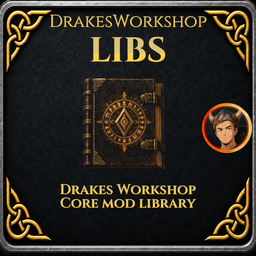
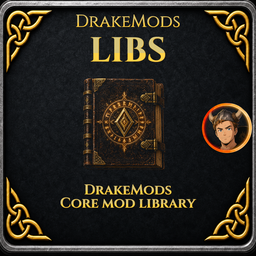
Rename package to DrakeModsLibs and refresh branding, packaging, and display patches.

Changed region(s): [[0.1875, 0.0312, 0.8125, 0.125], [0.2188, 0.7188, 0.7812, 0.7812]]

diff --git a/Patches/ItemDisplayPatches.cs b/Patches/ItemDisplayPatches.cs
@@ -4,18 +4,14 @@ using System.Linq;
 using System.Reflection;
 using System.Text.RegularExpressions;
 using BepInEx.Logging;
-using DrakesWorkshopLibs.Data;
-using DrakesWorkshopLibs.Display;
-using DrakesWorkshopLibs.Runtime;
-
-
-using DrakesWorkshopLibs.Display;
-
+using DrakeModsLibs.Data;
+using DrakeModsLibs.Display;
+using DrakeModsLibs.Runtime;
 using HarmonyLib;
 
 
 
-namespace DrakesWorkshopLibs.Patches;
+namespace DrakeModsLibs.Patches;
 
 /// <summary>Shared hover text rename logic (ItemDrop + ItemStand / container stands).</summary>
 internal static class HoverRenameHelper
@@ -167,7 +163,10 @@ public static class ItemStandPatch
 {
     
 
-    /// <summary>Container-backed stands first, then vanilla attached <see cref="ItemDrop.ItemData"/> (publicized <c>GetAttachedItem</c>).</summary>
+    /// <summary>
+    /// Container-backed stands first, then vanilla attachment.
+    /// Valheim 1.0+: <see cref="ItemStand.GetAttachedItem"/> returns a prefab hash (not <see cref="ItemDrop.ItemData"/>).
+    /// </summary>
     private static ItemDrop.ItemData? TryGetStandOccupantItem(ItemStand stand)
     {
         if (stand == null)
@@ -177,22 +176,23 @@ public static class ItemStandPatch
         if (fromContainer?.m_shared != null)
             return fromContainer;
 
-        var getAttached = AccessTools.Method(typeof(ItemStand), nameof(ItemStand.GetAttachedItem), Type.EmptyTypes);
-        if (getAttached?.Invoke(stand, null) is ItemDrop.ItemData attached && attached.m_shared != null)
-            return attached;
+        int hash = stand.GetAttachedItem();
+        if (hash == 0 || ObjectDB.instance == null)
+            return null;
 
-        return null;
+        var prefab = ObjectDB.instance.GetItemPrefab(hash);
+        return prefab != null ? prefab.GetComponent<ItemDrop>()?.m_itemData : null;
     }
 
     /// <summary>
     /// Clears the cached label when the stand is visually empty. When occupied, only <b>sets</b> the ZDO from
     /// <see cref="ItemDrop.ItemData"/> if Drake rename keys are present on that instance — vanilla's attached
-    /// visual item is often a copy without <c>m_customData</c>, and clearing from that would wipe a correct value
+    /// visual is often a prefab copy without <c>m_customData</c>, and clearing from that would wipe a correct value
     /// written by <see cref="GrabItem"/>.
     /// </summary>
-    private static void SyncItemStandRenameZdoFromOccupant(ItemStand stand, ZDO zdo, string itemName)
+    private static void SyncItemStandRenameZdoFromOccupant(ItemStand stand, ZDO zdo, int itemHash)
     {
-        if (string.IsNullOrEmpty(itemName))
+        if (itemHash == 0)
         {
             zdo.Set(DrakeCustomDataKeys.ItemStandHoverName, string.Empty);
             return;
@@ -214,8 +214,17 @@ public static class ItemStandPatch
         if (stand == null)
             return false;
 
-        // Must use reflection: direct m_visualName access throws FieldAccessException at runtime when the
-        // game loads non-publicized ItemStand (compile against publicized, run against vanilla IL).
+        // Valheim 1.0+: prefer HaveAttachment / hash. Fall back to m_visualName for older builds.
+        try
+        {
+            if (stand.HaveAttachment())
+                return true;
+        }
+        catch
+        {
+            /* ignore */
+        }
+
         var visual = AccessTools.Field(typeof(ItemStand), "m_visualName")?.GetValue(stand) as string;
         return !string.IsNullOrEmpty(visual);
     }
@@ -378,10 +387,11 @@ public static class ItemStandPatch
             zdo.Set(DrakeCustomDataKeys.ItemStandHoverName, string.Empty);
     }
 
+    // Valheim 1.0+: SetVisualItem(int itemHash, int variant, int quality, int orientation)
     [HarmonyPatch(nameof(ItemStand.SetVisualItem))]
     [HarmonyPostfix]
     [HarmonyPriority(Priority.Last)]
-    static void FixStandText(ItemStand __instance, string itemName, int variant, int quality)
+    static void FixStandText(ItemStand __instance, int itemHash, int variant, int quality, int orientation)
     {
         if (__instance == null)
             return;
@@ -397,7 +407,7 @@ public static class ItemStandPatch
 
         if (zdo == null) return;
 
-        SyncItemStandRenameZdoFromOccupant(__instance, zdo, itemName);
+        SyncItemStandRenameZdoFromOccupant(__instance, zdo, itemHash);
 
         string customName = TooltipRichText.EnsureRichTextTagsClosedForTooltip(zdo.GetString(DrakeCustomDataKeys.ItemStandHoverName, ""));
         if (!string.IsNullOrEmpty(customName))
@@ -447,16 +457,16 @@ internal static class DropHudMessagePatches
 
             if (m == null)
             {
-                log.LogWarning("[DrakesWorkshopLibs] Drop HUD: Humanoid.DropItem(Inventory,ItemData,int) not found.");
+                log.LogWarning("[DrakeModsLibs] Drop HUD: Humanoid.DropItem(Inventory,ItemData,int) not found.");
                 return;
             }
 
             harmony.Patch(m, prefix: new HarmonyMethod(typeof(DropHudMessagePatches), nameof(HumanoidDropItemTypedPrefix)));
-            log.LogInfo("[DrakesWorkshopLibs] Drop HUD: patched typed " + m.DeclaringType?.Name + "." + m.Name);
+            log.LogInfo("[DrakeModsLibs] Drop HUD: patched typed " + m.DeclaringType?.Name + "." + m.Name);
         }
         catch (Exception ex)
         {
-            log.LogError("[DrakesWorkshopLibs] Drop HUD: typed DropItem patch failed: " + ex);
+            log.LogError("[DrakeModsLibs] Drop HUD: typed DropItem patch failed: " + ex);
         }
     }
 
@@ -582,7 +592,7 @@ internal static class DropHudMessagePatches
                 ?? hudType.GetNestedType("MessageType", BindingFlags.Public | BindingFlags.NonPublic);
             if (msgEnum == null)
             {
-                log.LogWarning("[DrakesWorkshopLibs] Drop HUD: MessageHud.MessageType nested type not found.");
+                log.LogWarning("[DrakeModsLibs] Drop HUD: MessageHud.MessageType nested type not found.");
                 return;
             }
 
@@ -611,7 +621,7 @@ internal static class DropHudMessagePatches
 
             if (best == null)
             {
-                log.LogWarning("[DrakesWorkshopLibs] Drop HUD: no suitable MessageHud.ShowMessage overload found.");
+                log.LogWarning("[DrakeModsLibs] Drop HUD: no suitable MessageHud.ShowMessage overload found.");
                 return;
             }
 
@@ -628,7 +638,7 @@ internal static class DropHudMessagePatches
 
             if (stringArgIndex < 0)
             {
-                log.LogWarning("[DrakesWorkshopLibs] Drop HUD: ShowMessage overload has no string parameter: " + best);
+                log.LogWarning("[DrakeModsLibs] Drop HUD: ShowMessage overload has no string parameter: " + best);
                 return;
             }
 
@@ -637,11 +647,11 @@ internal static class DropHudMessagePatches
                 : new HarmonyMethod(typeof(DropHudMessagePatches), nameof(MessageHudShowMessageStringArg1));
 
             harmony.Patch(best, prefix: prefix);
-            log.LogInfo("[DrakesWorkshopLibs] Drop HUD: patched MessageHud." + best.Name + " stringArg=" + stringArgIndex + " :: " + best);
+            log.LogInfo("[DrakeModsLibs] Drop HUD: patched MessageHud." + best.Name + " stringArg=" + stringArgIndex + " :: " + best);
         }
         catch (Exception ex)
         {
-            log.LogError("[DrakesWorkshopLibs] Drop HUD: MessageHud patch failed: " + ex);
+            log.LogError("[DrakeModsLibs] Drop HUD: MessageHud patch failed: " + ex);
         }
     }
 

diff --git a/Patches/InventoryStackPatches.cs b/Patches/InventoryStackPatches.cs
@@ -3,12 +3,12 @@ using System.Reflection;
 using BepInEx.Logging;
 using HarmonyLib;
 
-namespace DrakesWorkshopLibs.Patches;
+namespace DrakeModsLibs.Patches;
 
 
-using DrakesWorkshopLibs.Data;
-using DrakesWorkshopLibs.Runtime;
-using DrakesWorkshopLibs.Stack;
+using DrakeModsLibs.Data;
+using DrakeModsLibs.Runtime;
+using DrakeModsLibs.Stack;
 
 /// <summary>When <see cref="policy.SeparateStacksEnabled"/> is on, only stacks with matching fingerprints merge.</summary>
 /// <remarks>
@@ -37,7 +37,7 @@ internal static class InventoryStackPatches
         else
         {
             log.LogWarning(
-                "[DrakesWorkshopLibs] SeparateStacks: AddItem(ItemData) not found — incoming stack tracking disabled.");
+                "[DrakeModsLibs] SeparateStacks: AddItem(ItemData) not found — incoming stack tracking disabled.");
         }
 
         // FindFreeStackItem has had 2- and 3-arg variants (worldLevel added in newer Valheim).
@@ -65,7 +65,7 @@ internal static class InventoryStackPatches
         else
         {
             log.LogWarning(
-                "[DrakesWorkshopLibs] SeparateStacks: FindFreeStackItem not found — merge-from-pickup may ignore identity.");
+                "[DrakeModsLibs] SeparateStacks: FindFreeStackItem not found — merge-from-pickup may ignore identity.");
         }
 
         // AddItem cell-overload has also varied in arity; find by signature: (ItemData, int, int, int[, ...]).
@@ -94,7 +94,7 @@ internal static class InventoryStackPatches
         else
         {
             log.LogWarning(
-                "[DrakesWorkshopLibs] SeparateStacks: AddItem(ItemData,int,int,int...) not found — cell merge guard disabled.");
+                "[DrakeModsLibs] SeparateStacks: AddItem(ItemData,int,int,int...) not found — cell merge guard disabled.");
         }
     }
 

diff --git a/Patches/ItemTooltipPatches.cs b/Patches/ItemTooltipPatches.cs
@@ -2,15 +2,15 @@ using System;
 using System.Reflection;
 using System.Text.RegularExpressions;
 using BepInEx.Logging;
-using DrakesWorkshopLibs.Display;
+using DrakeModsLibs.Display;
 using HarmonyLib;
 
-namespace DrakesWorkshopLibs.Patches;
+namespace DrakeModsLibs.Patches;
 
 
-using DrakesWorkshopLibs.Data;
-using DrakesWorkshopLibs.Runtime;
-using DrakesWorkshopLibs.Stack;
+using DrakeModsLibs.Data;
+using DrakeModsLibs.Runtime;
+using DrakeModsLibs.Stack;
 
 /// <summary>
 /// Replaces visible crafted-by text when <see cref="DrakeCustomDataKeys.CraftedByDisplay"/> and/or
@@ -39,7 +39,7 @@ internal static class ItemTooltipPatches
         {
             // InventoryGridTooltipPatch (CreateItemTooltip postfix) calls ApplyCraftedByDisplayToTooltipText after item.GetTooltip().
             log.LogDebug(
-                "[DrakesWorkshopLibs] Crafted-by display: no patchable GetTooltip overload on ItemData hierarchy; " +
+                "[DrakeModsLibs] Crafted-by display: no patchable GetTooltip overload on ItemData hierarchy; " +
                 "grid tooltips still apply crafted-by via CreateItemTooltip.");
             return;
         }

diff --git a/Patches/DecoratedNamePatches.cs b/Patches/DecoratedNamePatches.cs
@@ -1,11 +1,11 @@
 using HarmonyLib;
 using System;
 using System.Reflection;
-using DrakesWorkshopLibs.Data;
-using DrakesWorkshopLibs.Display;
-using DrakesWorkshopLibs.Runtime;
+using DrakeModsLibs.Data;
+using DrakeModsLibs.Display;
+using DrakeModsLibs.Runtime;
 
-namespace DrakesWorkshopLibs.Patches
+namespace DrakeModsLibs.Patches
 {
     /// <summary>
     /// UI-only: try to ensure places that use an ItemData "decorated name" helper (notably the upgrade-items list)
@@ -49,7 +49,7 @@ namespace DrakesWorkshopLibs.Patches
                 _loggedMissing = true;
                 // Intentionally no hard error: missing name helper should not disable the whole mod.
                 UnityEngine.Debug.LogWarning(
-                    "[DrakesWorkshopLibs] Upgrade list rename: no suitable ItemData decorated-name method found; upgrade tab names may remain vanilla.");
+                    "[DrakeModsLibs] Upgrade list rename: no suitable ItemData decorated-name method found; upgrade tab names may remain vanilla.");
             }
 
             return null;

diff --git a/Input/MenuBindingRegistry.cs b/Input/MenuBindingRegistry.cs
@@ -2,9 +2,9 @@ using System;
 using System.Collections.Generic;
 using System.Linq;
 using BepInEx.Logging;
-using DrakesWorkshopLibs.Input;
+using DrakeModsLibs.Input;
 
-namespace DrakesWorkshopLibs.Input;
+namespace DrakeModsLibs.Input;
 
 public sealed class MenuBindingRegistration
 {
@@ -76,7 +76,7 @@ public static class MenuBindingRegistry
             if (!LoggedConflicts.Add(key))
                 continue;
             Log?.LogWarning(
-                $"[DrakesWorkshopLibs] Menu binding conflict in scope '{added.Scope}': " +
+                $"[DrakeModsLibs] Menu binding conflict in scope '{added.Scope}': " +
                 $"{existing.ModLabel} ({existing.Id}) and {added.ModLabel} ({added.Id}) both use '{newBinding}'.");
         }
     }

diff --git a/Data/DrakeCustomDataCatalog.cs b/Data/DrakeCustomDataCatalog.cs
@@ -1,14 +1,14 @@
 using System;
 using System.Collections.Generic;
 using System.Linq;
-using DrakesWorkshopLibs.API;
+using DrakeModsLibs.API;
 
-namespace DrakesWorkshopLibs.Data;
+namespace DrakeModsLibs.Data;
 
 /// <summary>Registry of known Drake-suite <c>m_customData</c> keys; other mods can register their keys at load.</summary>
 public static class DrakeCustomDataCatalog
 {
-    public const string ModWorkshopLibs = "DrakesWorkshopLibs";
+    public const string ModWorkshopLibs = "DrakeModsLibs";
     public const string ModRenameIt = "DrakesRenameIt";
     public const string ModQuestItems = "DrakesQuestItems";
     public const string ModItemShop = "DrakesItemShop";

diff --git a/HarmonyPatchHub.cs b/HarmonyPatchHub.cs
@@ -1,9 +1,9 @@
 using System.Reflection;
 using BepInEx.Logging;
-using DrakesWorkshopLibs.Patches;
+using DrakeModsLibs.Patches;
 using HarmonyLib;
 
-namespace DrakesWorkshopLibs;
+namespace DrakeModsLibs;
 
 internal static class HarmonyPatchHub
 {
@@ -14,6 +14,6 @@ internal static class HarmonyPatchHub
         DropHudMessagePatches.ApplyDropItemPendingCapture(harmony, log);
         harmony.PatchAll(typeof(HarmonyPatchHub).Assembly);
         DropHudMessagePatches.ApplyMessageHudShowMessage(harmony, log);
-        log.LogInfo("[DrakesWorkshopLibs] Display Harmony patches applied.");
+        log.LogInfo("[DrakeModsLibs] Display Harmony patches applied.");
     }
 }

diff --git a/Properties/AssemblyInfo.cs b/Properties/AssemblyInfo.cs
@@ -1,10 +1,10 @@
 using System.Reflection;
 using System.Runtime.InteropServices;
 
-[assembly: AssemblyTitle("DrakesWorkshopLibs")]
+[assembly: AssemblyTitle("DrakeModsLibs")]
 [assembly: AssemblyDescription("Shared customization library for Drake mods.")]
 [assembly: AssemblyCompany("DrakesWorkshop")]
-[assembly: AssemblyProduct("DrakesWorkshopLibs")]
+[assembly: AssemblyProduct("DrakeModsLibs")]
 [assembly: ComVisible(false)]
 [assembly: Guid("a1111111-1111-4111-8111-111111111101")]
 [assembly: AssemblyVersion("0.3.0.0")]

diff --git a/API/CustomizeLibsAPI.cs b/API/CustomizeLibsAPI.cs
@@ -1,11 +1,11 @@
 using System.Collections.Generic;
-using DrakesWorkshopLibs.Data;
-using DrakesWorkshopLibs.Display;
-using DrakesWorkshopLibs.Runtime;
-using DrakesWorkshopLibs.Sync;
-using DrakesWorkshopLibs.Tags;
+using DrakeModsLibs.Data;
+using DrakeModsLibs.Display;
+using DrakeModsLibs.Runtime;
+using DrakeModsLibs.Sync;
+using DrakeModsLibs.Tags;
 
-namespace DrakesWorkshopLibs.API;
+namespace DrakeModsLibs.API;
 
 public static class CustomizeLibsAPI
 {

diff --git a/Patches/InventoryGridDisplayTooltipPatch.cs b/Patches/InventoryGridDisplayTooltipPatch.cs
@@ -1,9 +1,9 @@
 using HarmonyLib;
-using DrakesWorkshopLibs.Data;
-using DrakesWorkshopLibs.Display;
-using DrakesWorkshopLibs.Patches;
+using DrakeModsLibs.Data;
+using DrakeModsLibs.Display;
+using DrakeModsLibs.Patches;
 
-namespace DrakesWorkshopLibs.Patches;
+namespace DrakeModsLibs.Patches;
 
 [HarmonyPatch(typeof(InventoryGrid), nameof(InventoryGrid.CreateItemTooltip))]
 [HarmonyPriority(500)]

diff --git a/CustomizeLibsPlugin.cs b/CustomizeLibsPlugin.cs
@@ -1,13 +1,13 @@
 using BepInEx;
 using HarmonyLib;
 
-namespace DrakesWorkshopLibs;
+namespace DrakeModsLibs;
 
 [BepInPlugin(GUID, ModName, Version)]
 public partial class CustomizeLibsPlugin : BaseUnityPlugin
 {
 
-    private readonly Harmony _harmony = new("drakesmod.DrakesWorkshopLibs");
+    private readonly Harmony _harmony = new("drakemods.DrakeModsLibs");
 
     private void Awake()
     {

diff --git a/Stack/StackIdentity.cs b/Stack/StackIdentity.cs
@@ -1,9 +1,9 @@
-using DrakesWorkshopLibs.Data;
+using DrakeModsLibs.Data;
 
 using System;
 using System.Text;
 
-namespace DrakesWorkshopLibs.Stack;
+namespace DrakeModsLibs.Stack;
 
 /// <summary>Compares Drake-specific custom data so stacks with different rename/desc/crafted display do not merge when <see cref="policy.SeparateStacksEnabled"/> is on.</summary>
 internal static class StackIdentity
